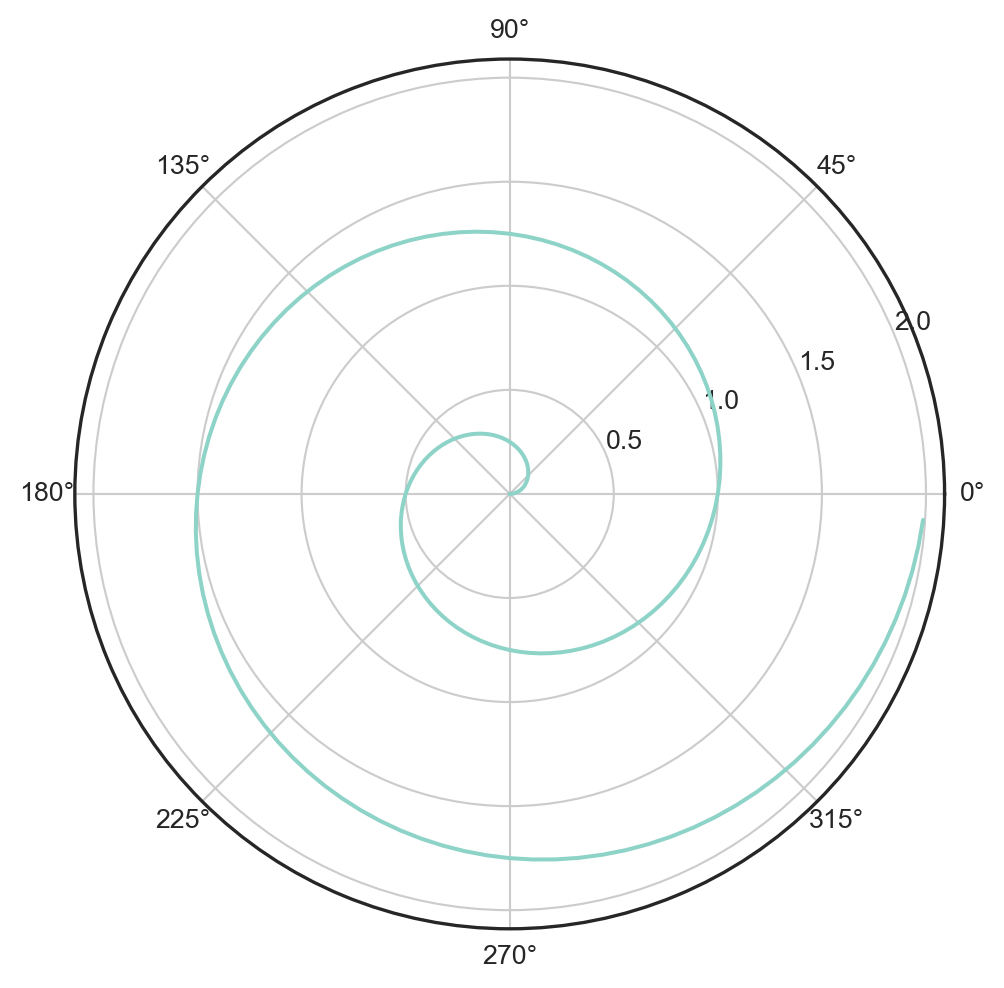
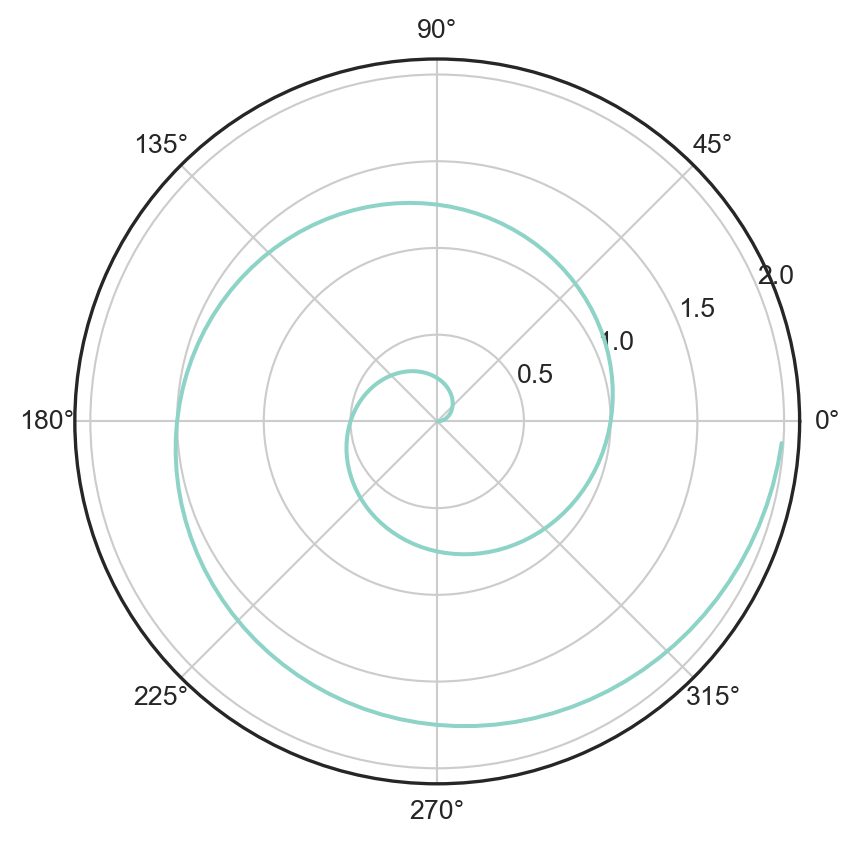
fix

diff --git a/index.html b/index.html
@@ -7,7 +7,7 @@
 <link href="index_files/libs/quarto-html/tippy.css" rel="stylesheet">
 <link href="index_files/libs/quarto-html/quarto-html.min.css" rel="stylesheet" data-mode="light">
 <link href="index_files/libs/quarto-html/quarto-syntax-highlighting-dark.css" rel="stylesheet" id="quarto-text-highlighting-styles"><meta charset="utf-8">
-  <meta name="generator" content="quarto-1.1.189">
+  <meta name="generator" content="quarto-1.1.165">
 
   <meta name="author" content="anarinsk">
   <meta name="dcterms.date" content="2022-09-06">
@@ -737,7 +737,7 @@
 <h1>How to use code</h1>
 
 </section>
-<section id="use-env" class="slide level2">
+<section id="use-env" class="slide level2 smaller">
 <h2>Use env</h2>
 <div>
 <ul>
@@ -746,7 +746,10 @@
 <li>python의 env를 쓰든 conda env를 쓰든 필요한 것을 쓰자.</li>
 </ul></li>
 <li><del>Code Extension이 아직까지 conda 환경을 제대로 지원하지 않는다.</del></li>
-<li>이제 잘 지원한다! <code>conda env</code>로 들어가서 VS Code에서 동일하게 사용하면 된다.</li>
+<li>이제 잘 지원한다!
+<ul>
+<li><code>conda env</code>로 들어가서 VS Code에서 동일하게 사용하면 된다.</li>
+</ul></li>
 <li>이 슬라이드처럼 다크 테마를 쓸 경우 그림 표시에 문제가 있을 수 있다.
 <ul>
 <li>그림 표현 역시 다크 테마에 맞추거나 (<code>Testing Code I</code>)</li>
@@ -755,53 +758,62 @@
 </ul>
 </div>
 </section>
-<section id="testing-code-i" class="slide level2">
+<section id="testing-code-i" class="slide level2 smaller">
 <h2>Testing Code I</h2>
+<div class="sourceCode" id="cb2" data-code-line-numbers="|7"><pre class="sourceCode numberSource python number-lines code-with-copy"><code class="sourceCode python"><span id="cb2-1"><a href="#cb2-1"></a><span class="co">#| echo: true</span></span>
+<span id="cb2-2"><a href="#cb2-2"></a><span class="co">#| label: fig-polar</span></span>
+<span id="cb2-3"><a href="#cb2-3"></a><span class="co">#| fig-cap: "A line plot on a polar axis"</span></span>
+<span id="cb2-4"><a href="#cb2-4"></a></span>
+<span id="cb2-5"><a href="#cb2-5"></a><span class="im">import</span> numpy <span class="im">as</span> np</span>
+<span id="cb2-6"><a href="#cb2-6"></a><span class="im">import</span> matplotlib.pyplot <span class="im">as</span> plt</span>
+<span id="cb2-7"><a href="#cb2-7"></a>plt.style.use(<span class="st">'dark_background'</span>)</span>
+<span id="cb2-8"><a href="#cb2-8"></a>r <span class="op">=</span> np.arange(<span class="dv">0</span>, <span class="dv">2</span>, <span class="fl">0.01</span>)</span>
+<span id="cb2-9"><a href="#cb2-9"></a>theta <span class="op">=</span> <span class="dv">2</span> <span class="op">*</span> np.pi <span class="op">*</span> r</span>
+<span id="cb2-10"><a href="#cb2-10"></a>fig, ax <span class="op">=</span> plt.subplots(subplot_kw<span class="op">=</span>{<span class="st">"projection"</span>: <span class="st">"polar"</span>})</span>
+<span id="cb2-11"><a href="#cb2-11"></a>ax.plot(theta, r)</span>
+<span id="cb2-12"><a href="#cb2-12"></a>ax.set_rticks([<span class="fl">0.5</span>, <span class="dv">1</span>, <span class="fl">1.5</span>, <span class="dv">2</span>])</span>
+<span id="cb2-13"><a href="#cb2-13"></a>ax.grid(<span class="va">True</span>)</span>
+<span id="cb2-14"><a href="#cb2-14"></a>plt.show()</span></code><button title="Copy to Clipboard" class="code-copy-button"><i class="bi"></i></button></pre></div>
+<div>
+<ul>
+<li><code>plt.style.use('dark_background')</code>: 다크 모드에 맞춘 스타일 설정</li>
+<li>한 턴 진행 후 아래 스크롤을 해서 결과를 확인!</li>
+</ul>
+</div>
+<div class="fragment">
 <div class="cell" data-execution_count="1">
-<div class="sourceCode cell-code" id="cb2"><pre class="sourceCode numberSource python number-lines code-with-copy"><code class="sourceCode python"><span id="cb2-1"><a href="#cb2-1"></a><span class="im">import</span> numpy <span class="im">as</span> np</span>
-<span id="cb2-2"><a href="#cb2-2"></a><span class="im">import</span> matplotlib.pyplot <span class="im">as</span> plt</span>
-<span id="cb2-3"><a href="#cb2-3"></a>plt.style.use(<span class="st">'dark_background'</span>)</span>
-<span id="cb2-4"><a href="#cb2-4"></a>plt.rcParams[<span class="st">"figure.figsize"</span>] <span class="op">=</span> (<span class="dv">6</span>,<span class="dv">6</span>)</span>
-<span id="cb2-5"><a href="#cb2-5"></a></span>
-<span id="cb2-6"><a href="#cb2-6"></a>r <span class="op">=</span> np.arange(<span class="dv">0</span>, <span class="dv">2</span>, <span class="fl">0.01</span>)</span>
-<span id="cb2-7"><a href="#cb2-7"></a>theta <span class="op">=</span> <span class="dv">2</span> <span class="op">*</span> np.pi <span class="op">*</span> r</span>
-<span id="cb2-8"><a href="#cb2-8"></a>fig, ax <span class="op">=</span> plt.subplots(subplot_kw<span class="op">=</span>{<span class="st">"projection"</span>: <span class="st">"polar"</span>})</span>
-<span id="cb2-9"><a href="#cb2-9"></a>ax.plot(theta, r)</span>
-<span id="cb2-10"><a href="#cb2-10"></a>ax.set_rticks([<span class="fl">0.5</span>, <span class="dv">1</span>, <span class="fl">1.5</span>, <span class="dv">2</span>])</span>
-<span id="cb2-11"><a href="#cb2-11"></a>ax.grid(<span class="va">True</span>)</span>
-<span id="cb2-12"><a href="#cb2-12"></a>plt.show()</span></code><button title="Copy to Clipboard" class="code-copy-button"><i class="bi"></i></button></pre></div>
 <div class="cell-output cell-output-display">
 <div id="fig-polar" class="quarto-figure quarto-figure-center">
 <figure>
-<p><img data-src="index_files/figure-revealjs/fig-polar-output-1.png" width="502" height="494"></p>
+<p><img data-src="index_files/figure-revealjs/fig-polar-output-1.png" width="430" height="422"></p>
 <p></p><figcaption>Figure&nbsp;1: A line plot on a polar axis</figcaption><p></p>
 </figure>
 </div>
 </div>
 </div>
+</div>
 </section>
-<section id="testing-code-ii" class="slide level2">
+<section id="testing-code-ii" class="slide level2 smaller">
 <h2>Testing Code II</h2>
-<div class="sourceCode" id="cb3" data-code-line-numbers="|8"><pre class="sourceCode numberSource python number-lines code-with-copy"><code class="sourceCode python"><span id="cb3-1"><a href="#cb3-1"></a><span class="co">#| echo: true</span></span>
+<div class="sourceCode" id="cb3" data-code-line-numbers="|7"><pre class="sourceCode numberSource python number-lines code-with-copy"><code class="sourceCode python"><span id="cb3-1"><a href="#cb3-1"></a><span class="co">#| echo: true</span></span>
 <span id="cb3-2"><a href="#cb3-2"></a><span class="co">#| label: fig-polar-2</span></span>
 <span id="cb3-3"><a href="#cb3-3"></a><span class="co">#| fig-cap: "A line plot on a polar axis wth customized style"</span></span>
 <span id="cb3-4"><a href="#cb3-4"></a></span>
 <span id="cb3-5"><a href="#cb3-5"></a><span class="im">import</span> numpy <span class="im">as</span> np</span>
 <span id="cb3-6"><a href="#cb3-6"></a><span class="im">import</span> matplotlib.pyplot <span class="im">as</span> plt</span>
-<span id="cb3-7"><a href="#cb3-7"></a></span>
-<span id="cb3-8"><a href="#cb3-8"></a>plt.style.use(<span class="st">'seaborn-white'</span>)</span>
-<span id="cb3-9"><a href="#cb3-9"></a><span class="co">#plt.rcParams["figure.figsize"] = (6,6)</span></span>
-<span id="cb3-10"><a href="#cb3-10"></a></span>
-<span id="cb3-11"><a href="#cb3-11"></a>r <span class="op">=</span> np.arange(<span class="dv">0</span>, <span class="dv">2</span>, <span class="fl">0.01</span>)</span>
-<span id="cb3-12"><a href="#cb3-12"></a>theta <span class="op">=</span> <span class="dv">2</span> <span class="op">*</span> np.pi <span class="op">*</span> r</span>
-<span id="cb3-13"><a href="#cb3-13"></a>fig, ax <span class="op">=</span> plt.subplots(subplot_kw<span class="op">=</span>{<span class="st">"projection"</span>: <span class="st">"polar"</span>})</span>
-<span id="cb3-14"><a href="#cb3-14"></a>ax.plot(theta, r)</span>
-<span id="cb3-15"><a href="#cb3-15"></a>ax.set_rticks([<span class="fl">0.5</span>, <span class="dv">1</span>, <span class="fl">1.5</span>, <span class="dv">2</span>])</span>
-<span id="cb3-16"><a href="#cb3-16"></a>ax.grid(<span class="va">True</span>)</span>
-<span id="cb3-17"><a href="#cb3-17"></a>plt.show()</span></code><button title="Copy to Clipboard" class="code-copy-button"><i class="bi"></i></button></pre></div>
+<span id="cb3-7"><a href="#cb3-7"></a>plt.style.use(<span class="st">'seaborn-white'</span>)</span>
+<span id="cb3-8"><a href="#cb3-8"></a><span class="co">#plt.rcParams["figure.figsize"] = (6,6)</span></span>
+<span id="cb3-9"><a href="#cb3-9"></a></span>
+<span id="cb3-10"><a href="#cb3-10"></a>r <span class="op">=</span> np.arange(<span class="dv">0</span>, <span class="dv">2</span>, <span class="fl">0.01</span>)</span>
+<span id="cb3-11"><a href="#cb3-11"></a>theta <span class="op">=</span> <span class="dv">2</span> <span class="op">*</span> np.pi <span class="op">*</span> r</span>
+<span id="cb3-12"><a href="#cb3-12"></a>fig, ax <span class="op">=</span> plt.subplots(subplot_kw<span class="op">=</span>{<span class="st">"projection"</span>: <span class="st">"polar"</span>})</span>
+<span id="cb3-13"><a href="#cb3-13"></a>ax.plot(theta, r)</span>
+<span id="cb3-14"><a href="#cb3-14"></a>ax.set_rticks([<span class="fl">0.5</span>, <span class="dv">1</span>, <span class="fl">1.5</span>, <span class="dv">2</span>])</span>
+<span id="cb3-15"><a href="#cb3-15"></a>ax.grid(<span class="va">True</span>)</span>
+<span id="cb3-16"><a href="#cb3-16"></a>plt.show()</span></code><button title="Copy to Clipboard" class="code-copy-button"><i class="bi"></i></button></pre></div>
 <div>
 <ul>
-<li><code>plt.style.use('seaborn-white')</code>: 스타일 설정<br>
+<li><code>plt.style.use('seaborn-white')</code>: 적절한 백색 스타일<br>
 </li>
 </ul>
 </div>
@@ -810,7 +822,7 @@
 <div class="cell-output cell-output-display">
 <div id="fig-polar-2" class="quarto-figure quarto-figure-center">
 <figure>
-<p><img data-src="index_files/figure-revealjs/fig-polar-2-output-1.png" width="502" height="494"></p>
+<p><img data-src="index_files/figure-revealjs/fig-polar-2-output-1.png" width="430" height="422"></p>
 <p></p><figcaption>Figure&nbsp;2: A line plot on a polar axis wth customized style</figcaption><p></p>
 </figure>
 </div>
